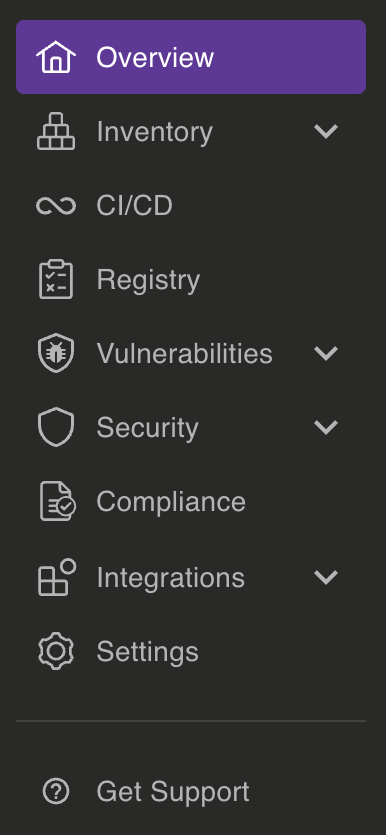
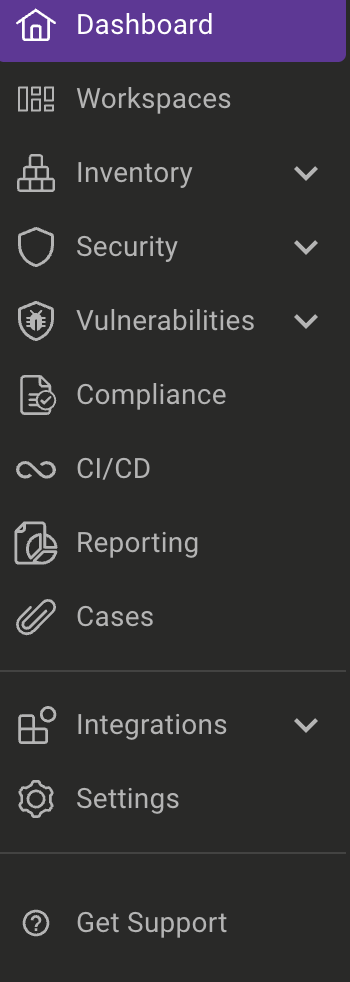
nav page and image changes

diff --git a/docs/platform/start/navigate.md b/docs/platform/start/navigate.md
@@ -18,13 +18,13 @@ The sun/moon icon on the toolbar lets you switch the console display between lig
 
 :::
 
-## Navigate regions, organizations, and spaces
+## Navigate regions, organizations, spaces, and workspaces
 
 ![Mondoo Console top navigation menu](/img/platform/start/nav-top.png)
 
-The assets in your infrastructure are [organized](/platform/start/organize/overview) into [regions](/platform/start/organize/regions), [organizations](/platform/start/organize/organizations), and [spaces](/platform/start/organize/spaces). You move between regions, organizations, and spaces, by selecting the top navigation menu (shown above) and the boxes that represent organizations or spaces.
+The assets in your infrastructure are [organized](/platform/start/organize/overview) into [regions](/platform/start/organize/regions), [organizations](/platform/start/organize/organizations) [spaces](/platform/start/organize/spaces), AND [workspaces](/platform/start/organize/workspaces). You move between regions, organizations, spaces, and workspaces using the drop-downs on the top navigation menu (shown above).
 
-For example, the image below shows all organizations in the US region. Select an organization to explore and manage it:
+You can also navigate using the Organizations, Spaces, and Workspaces pages: For example, the image below shows all organizations in the US region. Select an organization to explore and manage it:
 
 ![Mondoo Console organizations](/img/platform/start/organizations.png)
 
@@ -41,6 +41,8 @@ In this example, if you select the Lunalectric organization and then select Spac
 From there you can select any space to access and manage its details. For example, select the Online Store box to view the Online Store space.
 
 You can filter spaces to see a subset of spaces or find a specific one. Type in the **Filter Spaces** box to see only spaces with names that match what you type. The filter is case sensitive and includes partial matches.
+
+Select Workspaces in the side navigation bar to see all the workspaces in a space. Select a workspace to view it.
 
 ## Perform tasks within a space
 
